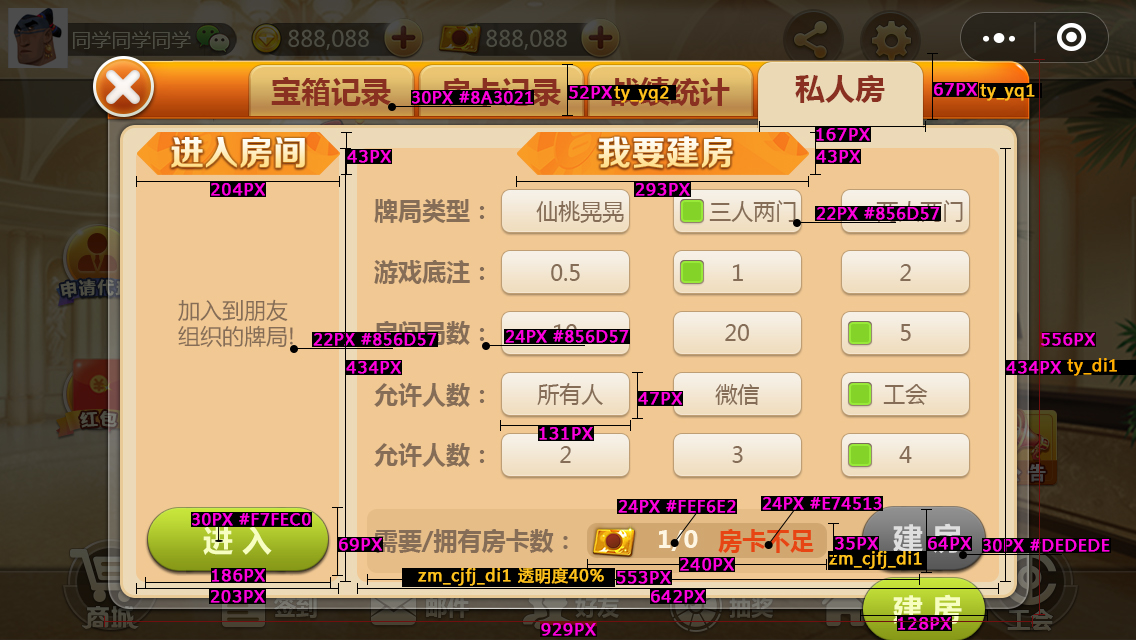
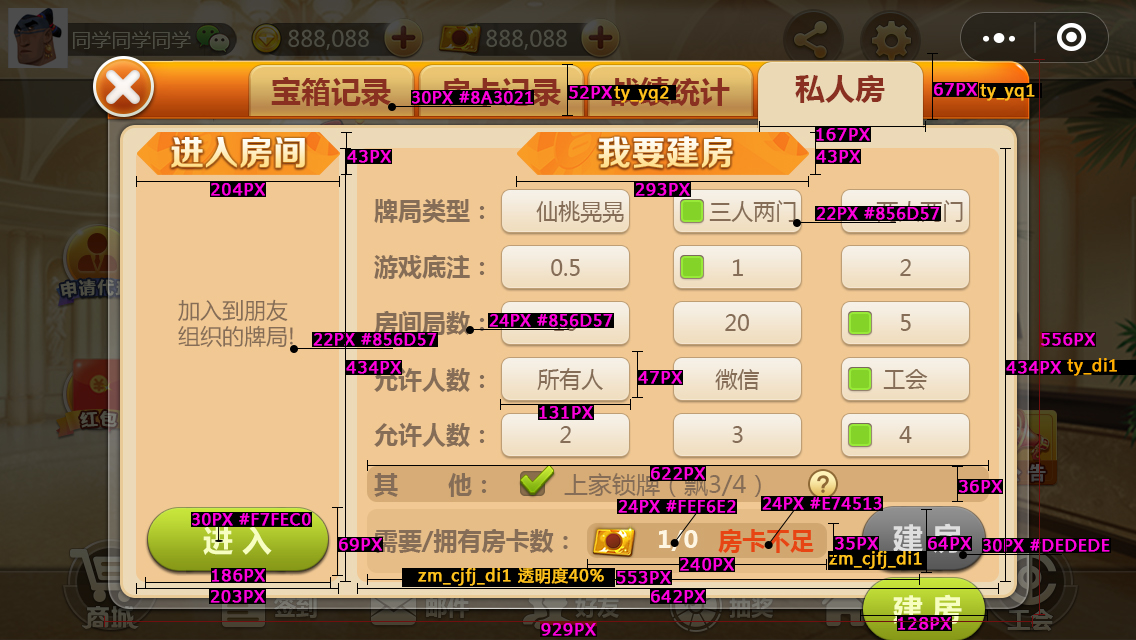
创建房间 新规则

Changed region(s): [[0.3081, 0.375, 0.8935, 0.7812]]

diff --git a/assets/Script/modules/lobby/views/NewRoomView.ts b/assets/Script/modules/lobby/views/NewRoomView.ts
@@ -628,6 +628,14 @@ export class NewRoomView extends cc.Component {
         const roundRadioBtnIndex = this.getRoundRadioBtnSelectIndex();
         const joinRadioBtnIndex = this.getJoinRadioBtnSelectIndex();
         const playerRequireRadioBtnIndex = this.getPlayerRequireRadioBtnSelectIndex();
+
+        const personalRoomView = this.view.getChild("srfCom").asCom;
+        const otherBtn = personalRoomView.getChild("otherBtn").asButton;
+
+        const piaoLaiLimit = otherBtn.selected ? 1 : 0;
+
+        Logger.debug("piaoLaiLimit = ", piaoLaiLimit);
+
         const myGame = myGames[gameTypeRadioBtnIndex];
 
         let roomID = myGame.roomID;
@@ -640,7 +648,8 @@ export class NewRoomView extends cc.Component {
             roomID: roomID,
             base: anteRadioBtnIndex,
             round: roundRadioBtnIndex,
-            allowJoin: joinRadioBtnIndex
+            allowJoin: joinRadioBtnIndex,
+            piaoLaiLimit: piaoLaiLimit
         };
 
         Logger.debug("createRoomParams:", createRoomParams);

diff --git a/assets/Script/modules/gamea/RoomViewA.ts b/assets/Script/modules/gamea/RoomViewA.ts
@@ -352,7 +352,6 @@ export class RoomViewA {
             disbandView = this.component.addComponent(DisbandView);
         }
 
-
         const myPlayerInfo = this.room.getMyPlayerInfo();
         const myInfo = new DisBandPlayerInfo(myPlayerInfo.userID, myPlayerInfo.chairID, myPlayerInfo.nick);
         const players = this.room.getPlayers();
